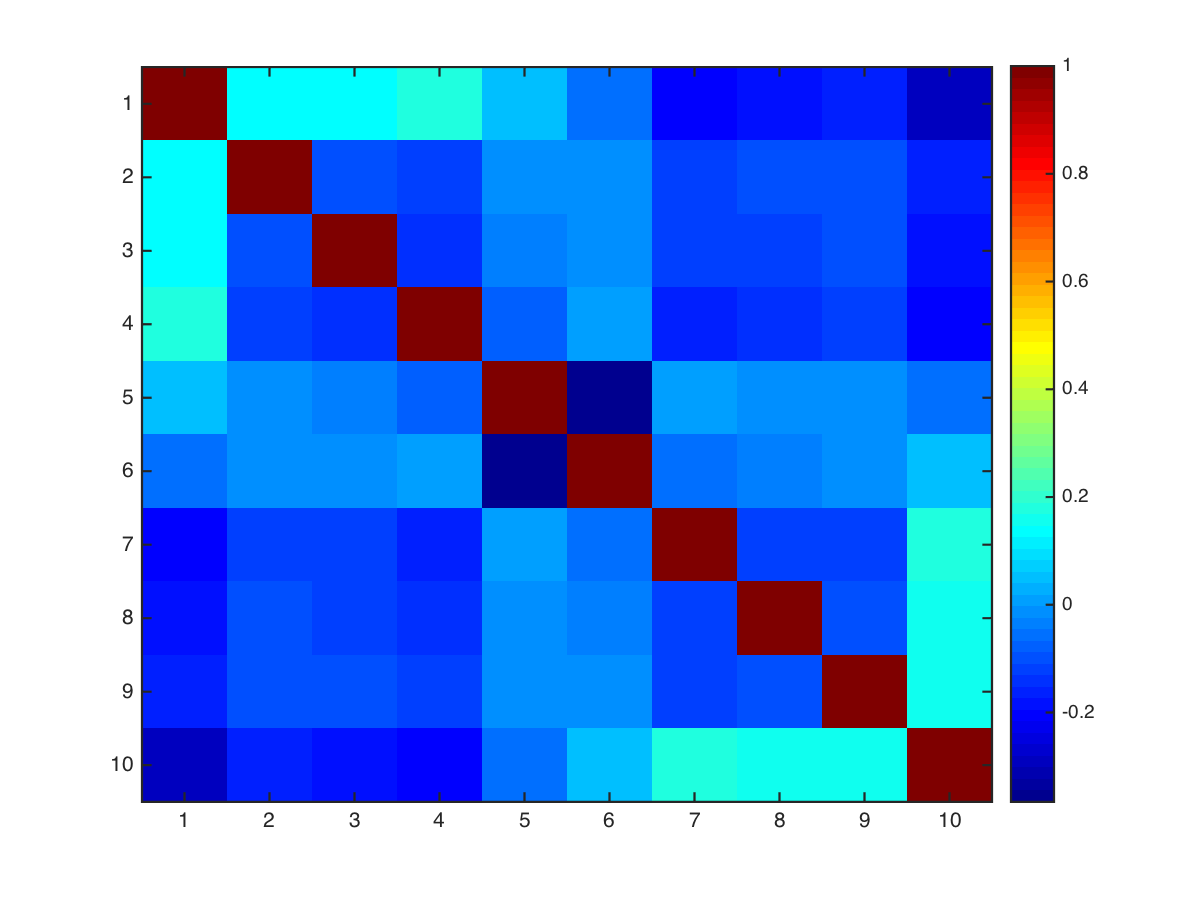
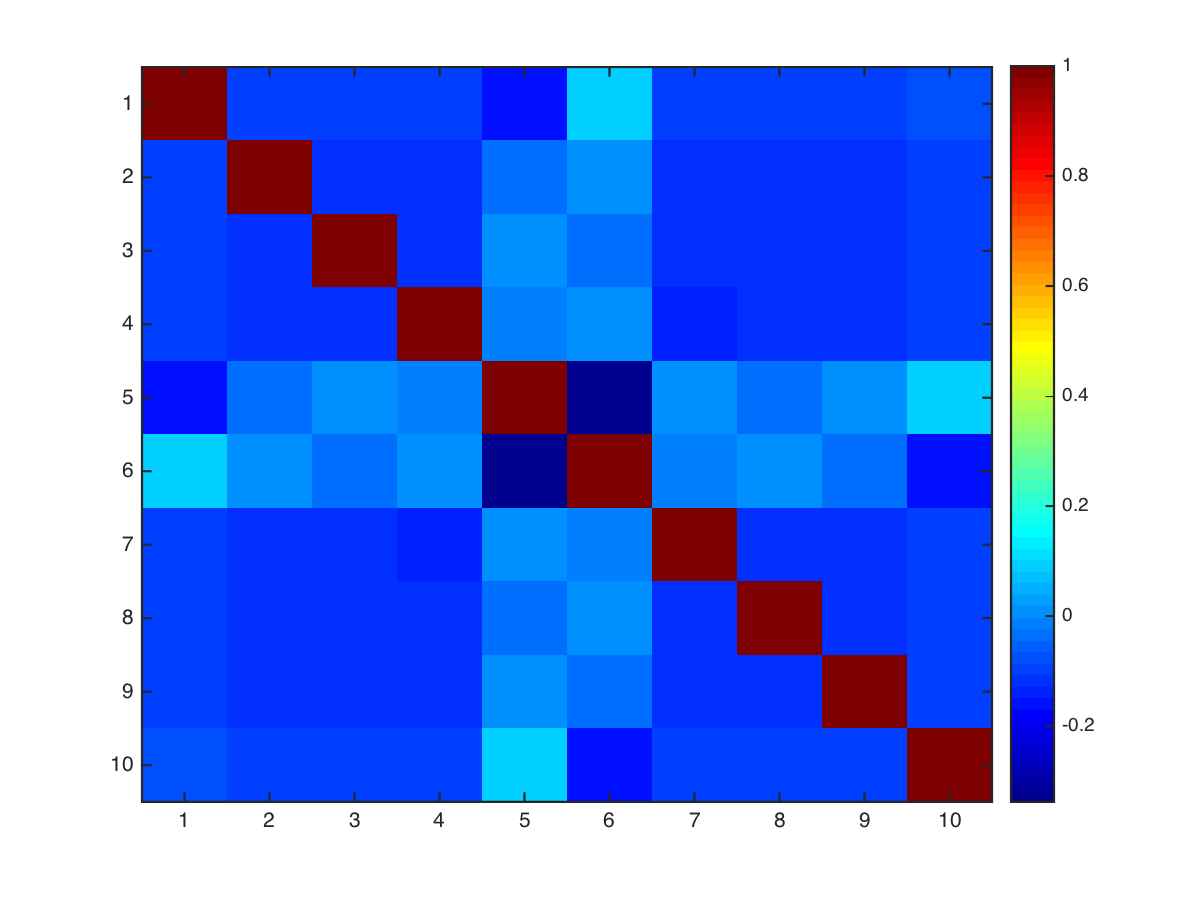
Modified tuning_corr_cov.m to calculate tuning curves based on constant input. Added updated figures for tuning curves and covariance, correlation matrices.

diff --git a/tuning_corr_cov.m b/tuning_corr_cov.m
@@ -21,7 +21,7 @@ K = 10;
 mu = 1e-8;
 
 %% Simulate network runs
-runs = 1000;
+runs = 100;
 % output weight
 G = linspace(-0.005, 0.005, K);
 G = G';
@@ -29,25 +29,42 @@ G = G';
 spike_trains = zeros(K, N*runs);
 xs = zeros(N*runs, 1);
 
+% set of inputs
+ninputs = 40;
+inputs = linspace(-0.05, 0.05, ninputs);
+
 for r = 1:runs
     r
-    % generate random walk input
-    x = (cumsum(randn(N, 1)));
-    x = x * 0.001;
-    x = smooth(x, floor(N/20));
+%     % generate random walk input
+%     x = (cumsum(randn(N, 1)));
+%     x = x * 0.001;
+%     x = smooth(x, floor(N/20));
+%     % derivative
+%     xp = [0; (x(2:N) - x(1:(N-1))) / stepsize];
+%     
 
-    % derivative
-    xp = [0; (x(2:N) - x(1:(N-1))) / stepsize];
+    % generate stepwise constant input
+    ci = inputs(randperm(ninputs));
+    x = ones(N,1) * ci(ninputs);
+    perinputT = round(N / ninputs);
+    for i = 1:(ninputs-1)
+        x((((i-1)*perinputT)+1):(i*perinputT)) = ci(i);
+        xs(((N*(r-1))+1):(N*r), 1) = x;
+    end
+    xp = zeros(N,1);
     
-    xs(((N*(r-1))+1):(N*r), 1) = x;
-
     % simulate network
     [V, spike_train, firing_rate, xhat] = simulate_network(N, stepsize, x, xp, K, mu, G);
     spike_trains(:, ((N*(r-1))+1):(N*r)) = spike_train;
+
 end
 
+% plot(x)
+% hold on
+% plot(xhat)
+
 %% tuning curves and f prime
-nstep = 40;
+nstep = ninputs; % for stepwise constant input
 xstep = (max(xs) - min(xs)) / nstep;
 xrange = linspace(min(xs) - xstep/2, max(xs) + xstep/2, nstep+1);
 tuning = zeros(K, nstep);
@@ -56,6 +73,7 @@ tuning = zeros(K, nstep);
 % interval
 for s = 1:nstep
     tuning(:, s) = mean(spike_trains(:, xs<xrange(s+1) & xs>=xrange(s)),2);
+    % tuning(:, s) = mean(spike_trains(:, xs==inputs(s)),2);
 end
 
 plot(tuning')
